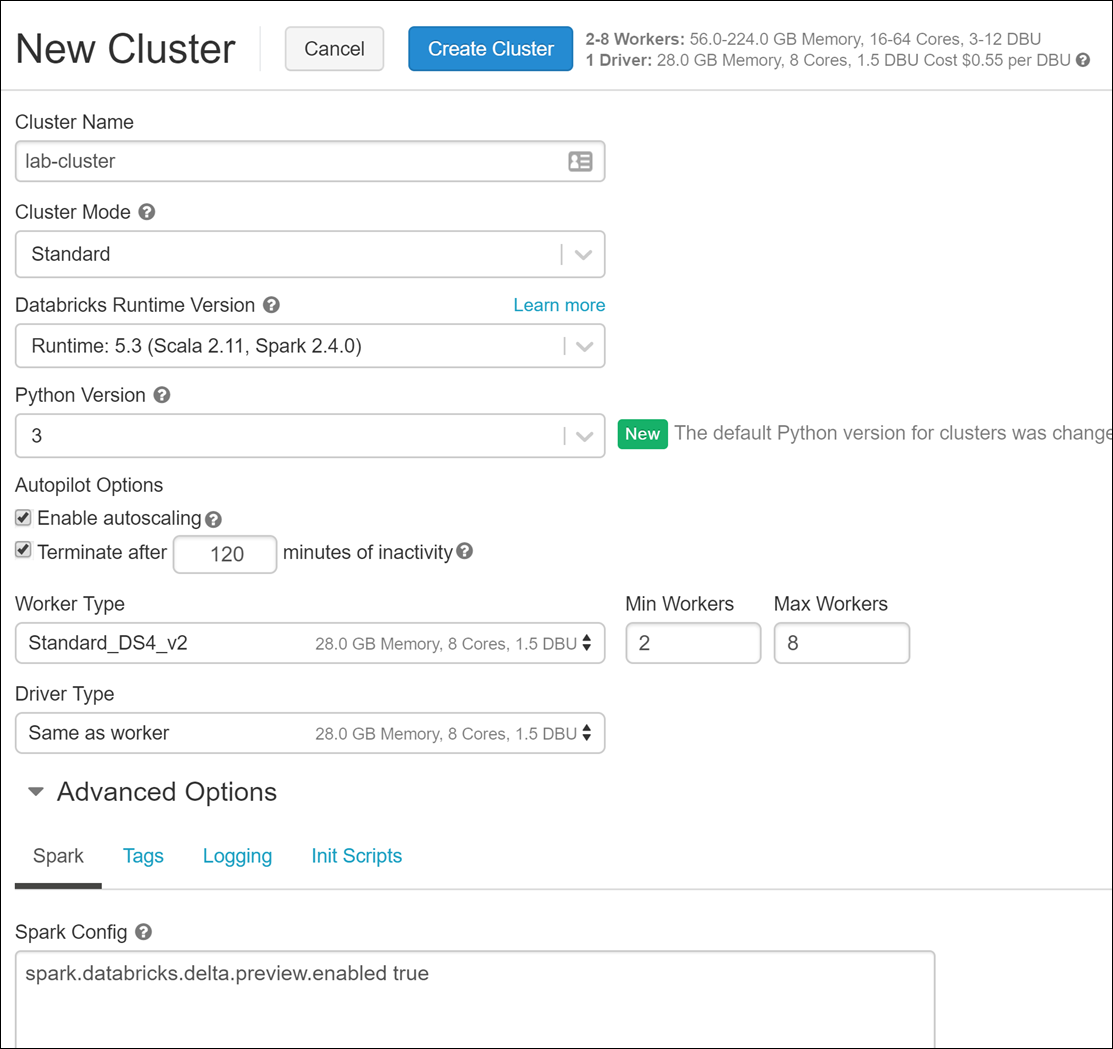
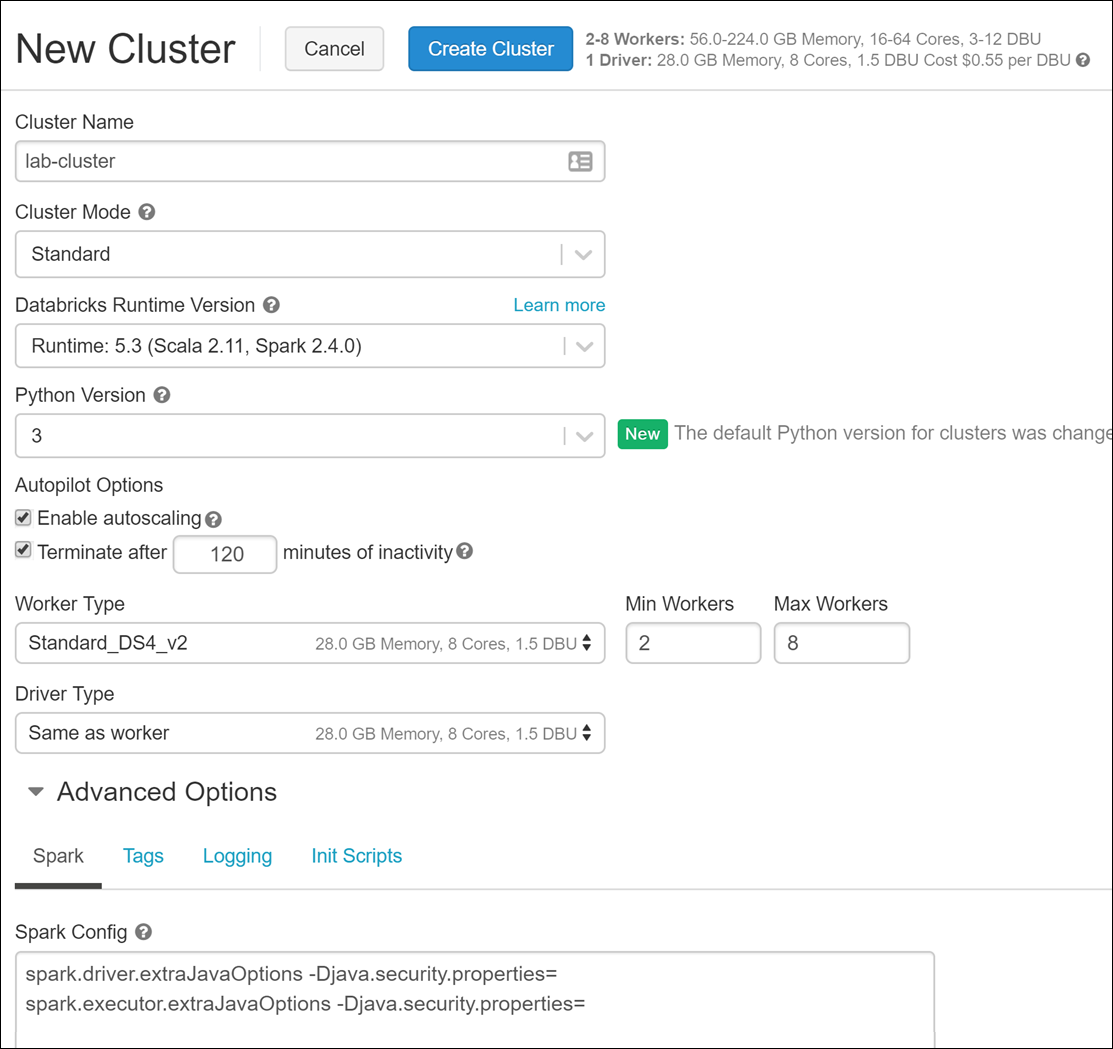
Updated Databricks cluster configuration in the HOL

Changed region(s): [[0.0305, 0.9152, 0.5193, 0.9762]]

diff --git a/Hands-on lab/HOL step-by step - Managed open source databases on Azure.md b/Hands-on lab/HOL step-by step - Managed open source databases on Azure.md
@@ -462,8 +462,11 @@ In this task, you will connect to your Azure Databricks workspace and create a c
    - Expand Advanced Options and enter the following into the Spark Config box:
 
      ```bash
-     spark.databricks.delta.preview.enabled true
+     spark.driver.extraJavaOptions -Djava.security.properties=
+     spark.executor.extraJavaOptions -Djava.security.properties=
      ```
+
+     > The two values in the advanced options fixes an issue caused by GCM ciphers being disabled in Databricks version 5.1 and greater. Without these settings, you will receive the following error when attempting to connect to the PostgreSQL Hyperscale cluster: `SSL error: Received fatal alert: handshake_failure`.
 
    ![The Create Cluster screen is displayed, with the values specified above entered into the appropriate fields.](media/databricks-create-new-cluster.png 'Create a new Databricks cluster')
 
